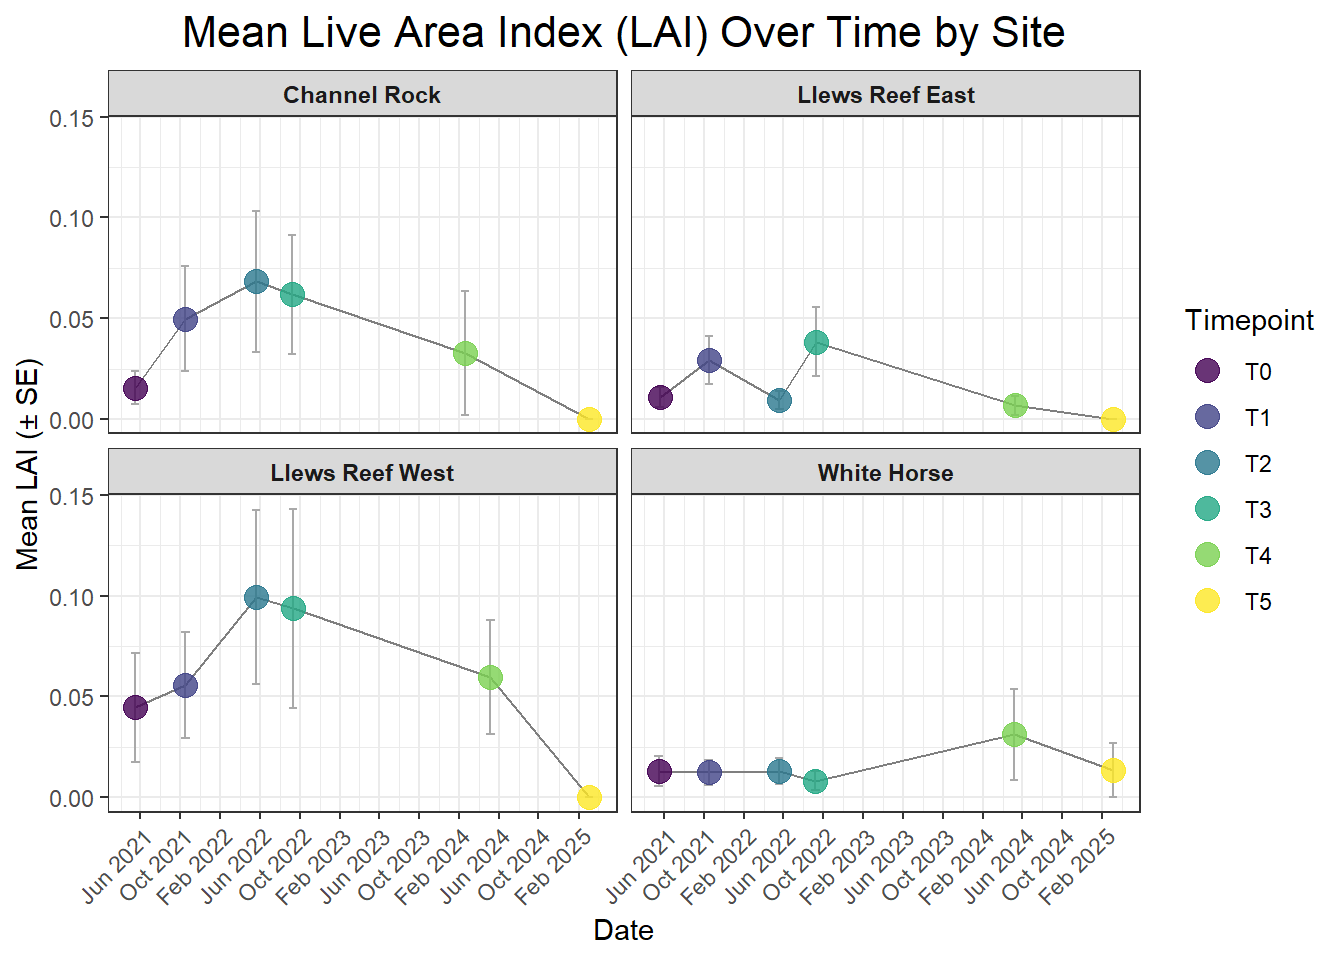
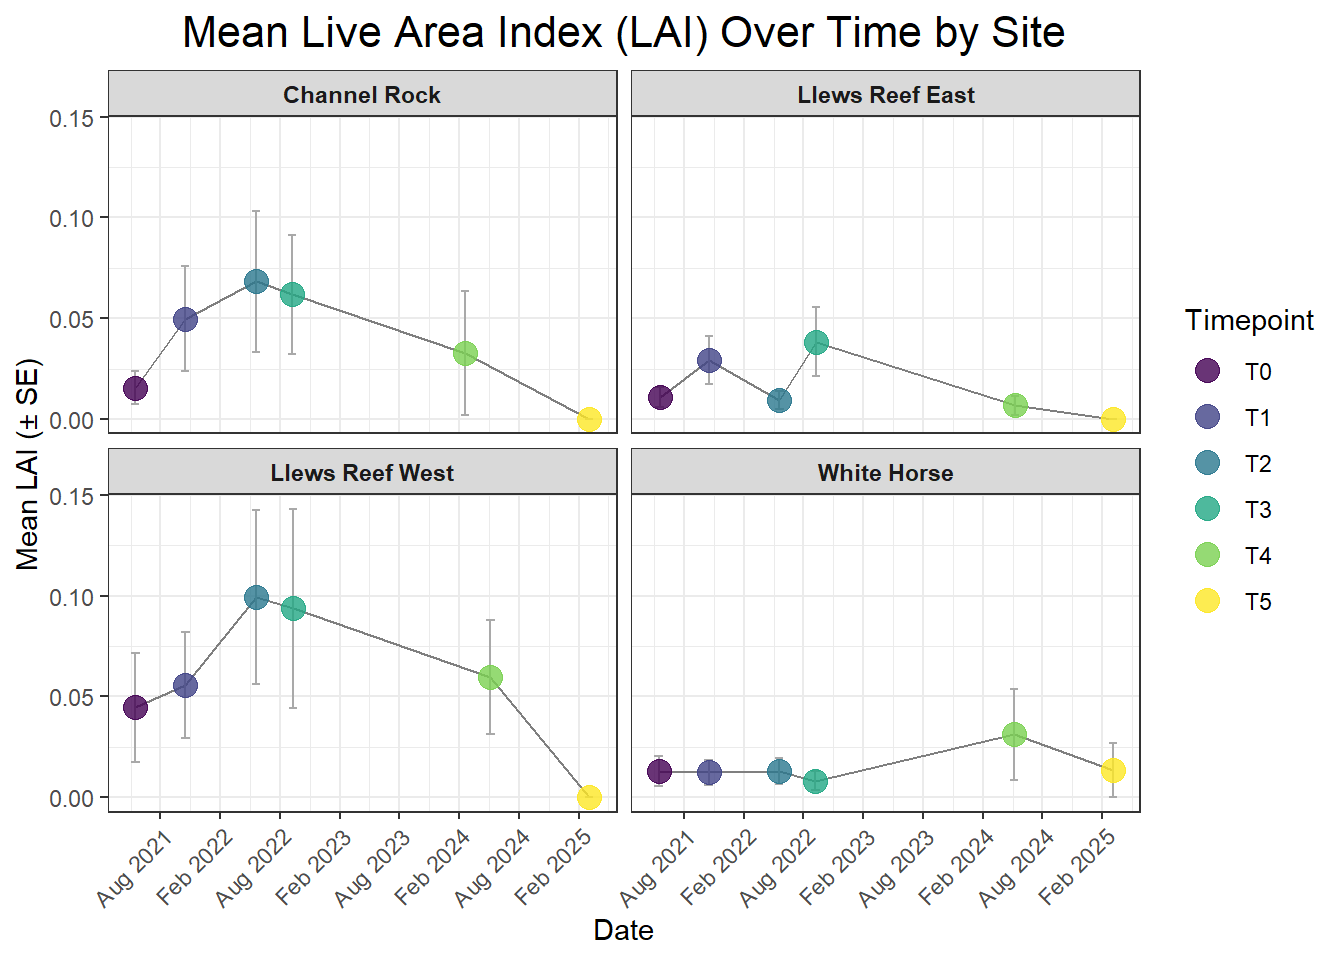
x-axis labels to 6 month intervals for better readability

diff --git a/docs/site-maps.html b/docs/site-maps.html
@@ -159,8 +159,8 @@ ul.task-list li input[type="checkbox"] {
 <p><strong>Site Map</strong></p>
 <div class="cell">
 <div class="cell-output-display">
-<div class="leaflet html-widget html-fill-item" id="htmlwidget-7e0d2bd8f569506e0f3d" style="width:100%;height:464px;"></div>
-<script type="application/json" data-for="htmlwidget-7e0d2bd8f569506e0f3d">{"x":{"options":{"crs":{"crsClass":"L.CRS.EPSG3857","code":null,"proj4def":null,"projectedBounds":null,"options":{}}},"setView":[[18.03805,-64.74905],9,[]],"calls":[{"method":"addProviderTiles","args":["Esri.WorldTopoMap",null,null,{"errorTileUrl":"","noWrap":false,"detectRetina":false}]},{"method":"addMarkers","args":[[17.76713,18.30466,18.31716,17.76215,17.76483,18.31964,18.35674,17.78701,18.31567],[-64.59161,-64.84613,-64.98894,-64.60087,-64.61577,-64.74399,-64.85406999999999,-64.74867,-64.72617],null,null,null,{"interactive":true,"draggable":false,"keyboard":true,"title":"","alt":"","zIndexOffset":0,"opacity":1,"riseOnHover":false,"riseOffset":250},["<div style=\"display: flex; align-items: flex-start;\">\n         \n         <div style=\"width: 280px; padding-right: 10px;\">\n           <strong>Channel Rock<\/strong><br>\n           --------------------<br>\n           <strong>Lat:<\/strong> 17.76713<br>\n           <strong>Lon:<\/strong> -64.59161<br>\n           <strong>Depth:<\/strong> 10 m<br><br>\n           <p style=\"margin: 0; white-space: normal; word-wrap: break-word;\">\"Lorem ipsum dolor sit amet, consectetur adipiscing elit, sed do eiusmod tempor incididunt ut labore et dolore magna aliqua. Ut enim ad minim veniam, quis nostrud exercitation ullamco laboris nisi ut aliquip ex ea commodo consequat. Duis aute irure dolor in reprehenderit in voluptate velit esse cillum dolore eu fugiat nulla pariatur. Excepteur sint occaecat cupidatat non proident, sunt in culpa qui officia deserunt mollit anim id est laborum.\"<\/p>\n         <\/div>\n         \n         <div style=\"width: 350px;\">\n           <img src=\"images/Channel_Rock.JPG\" width=\"350\" alt=\"Photo of Channel Rock\">\n         <\/div>\n       <\/div>","<div style=\"display: flex; align-items: flex-start;\">\n         \n         <div style=\"width: 280px; padding-right: 10px;\">\n           <strong>Cow and Calf<\/strong><br>\n           --------------------<br>\n           <strong>Lat:<\/strong> 18.30466<br>\n           <strong>Lon:<\/strong> -64.84613<br>\n           <strong>Depth:<\/strong> 8 m<br><br>\n           <p style=\"margin: 0; white-space: normal; word-wrap: break-word;\">\"Lorem ipsum dolor sit amet, consectetur adipiscing elit, sed do eiusmod tempor incididunt ut labore et dolore magna aliqua. Ut enim ad minim veniam, quis nostrud exercitation ullamco laboris nisi ut aliquip ex ea commodo consequat. Duis aute irure dolor in reprehenderit in voluptate velit esse cillum dolore eu fugiat nulla pariatur. Excepteur sint occaecat cupidatat non proident, sunt in culpa qui officia deserunt mollit anim id est laborum.\"<\/p>\n         <\/div>\n         \n         <div style=\"width: 350px;\">\n           <img src=\"images/Cow_and_Calf.JPG\" width=\"350\" alt=\"Photo of Cow and Calf\">\n         <\/div>\n       <\/div>","<div style=\"display: flex; align-items: flex-start;\">\n         \n         <div style=\"width: 280px; padding-right: 10px;\">\n           <strong>Flat Cay<\/strong><br>\n           --------------------<br>\n           <strong>Lat:<\/strong> 18.31716<br>\n           <strong>Lon:<\/strong> -64.98894<br>\n           <strong>Depth:<\/strong> 5 m<br><br>\n           <p style=\"margin: 0; white-space: normal; word-wrap: break-word;\">\"Lorem ipsum dolor sit amet, consectetur adipiscing elit, sed do eiusmod tempor incididunt ut labore et dolore magna aliqua. Ut enim ad minim veniam, quis nostrud exercitation ullamco laboris nisi ut aliquip ex ea commodo consequat. Duis aute irure dolor in reprehenderit in voluptate velit esse cillum dolore eu fugiat nulla pariatur. Excepteur sint occaecat cupidatat non proident, sunt in culpa qui officia deserunt mollit anim id est laborum.\"<\/p>\n         <\/div>\n         \n         <div style=\"width: 350px;\">\n           <img src=\"images/Flat_Cay.JPG\" width=\"350\" alt=\"Photo of Flat Cay\">\n         <\/div>\n       <\/div>","<div style=\"display: flex; align-items: flex-start;\">\n         \n         <div style=\"width: 280px; padding-right: 10px;\">\n           <strong>Llews Reef East<\/strong><br>\n           --------------------<br>\n           <strong>Lat:<\/strong> 17.76215<br>\n           <strong>Lon:<\/strong> -64.60087<br>\n           <strong>Depth:<\/strong> 4 m<br><br>\n           <p style=\"margin: 0; white-space: normal; word-wrap: break-word;\">\"Lorem ipsum dolor sit amet, consectetur adipiscing elit, sed do eiusmod tempor incididunt ut labore et dolore magna aliqua. Ut enim ad minim veniam, quis nostrud exercitation ullamco laboris nisi ut aliquip ex ea commodo consequat. Duis aute irure dolor in reprehenderit in voluptate velit esse cillum dolore eu fugiat nulla pariatur. Excepteur sint occaecat cupidatat non proident, sunt in culpa qui officia deserunt mollit anim id est laborum.\"<\/p>\n         <\/div>\n         \n         <div style=\"width: 350px;\">\n           <img src=\"images/Llews_Reef_East.JPG\" width=\"350\" alt=\"Photo of Llews Reef East\">\n         <\/div>\n       <\/div>","<div style=\"display: flex; align-items: flex-start;\">\n         \n         <div style=\"width: 280px; padding-right: 10px;\">\n           <strong>Llews Reef West<\/strong><br>\n           --------------------<br>\n           <strong>Lat:<\/strong> 17.76483<br>\n           <strong>Lon:<\/strong> -64.61577<br>\n           <strong>Depth:<\/strong> 6 m<br><br>\n           <p style=\"margin: 0; white-space: normal; word-wrap: break-word;\">\"Lorem ipsum dolor sit amet, consectetur adipiscing elit, sed do eiusmod tempor incididunt ut labore et dolore magna aliqua. Ut enim ad minim veniam, quis nostrud exercitation ullamco laboris nisi ut aliquip ex ea commodo consequat. Duis aute irure dolor in reprehenderit in voluptate velit esse cillum dolore eu fugiat nulla pariatur. Excepteur sint occaecat cupidatat non proident, sunt in culpa qui officia deserunt mollit anim id est laborum.\"<\/p>\n         <\/div>\n         \n         <div style=\"width: 350px;\">\n           <img src=\"images/Llews_Reef_West.JPG\" width=\"350\" alt=\"Photo of Llews Reef West\">\n         <\/div>\n       <\/div>","<div style=\"display: flex; align-items: flex-start;\">\n         \n         <div style=\"width: 280px; padding-right: 10px;\">\n           <strong>Reef Bay<\/strong><br>\n           --------------------<br>\n           <strong>Lat:<\/strong> 18.31964<br>\n           <strong>Lon:<\/strong> -64.74399<br>\n           <strong>Depth:<\/strong> 9 m<br><br>\n           <p style=\"margin: 0; white-space: normal; word-wrap: break-word;\">\"Lorem ipsum dolor sit amet, consectetur adipiscing elit, sed do eiusmod tempor incididunt ut labore et dolore magna aliqua. Ut enim ad minim veniam, quis nostrud exercitation ullamco laboris nisi ut aliquip ex ea commodo consequat. Duis aute irure dolor in reprehenderit in voluptate velit esse cillum dolore eu fugiat nulla pariatur. Excepteur sint occaecat cupidatat non proident, sunt in culpa qui officia deserunt mollit anim id est laborum.\"<\/p>\n         <\/div>\n         \n         <div style=\"width: 350px;\">\n           <img src=\"images/Reef_Bay.JPG\" width=\"350\" alt=\"Photo of Reef Bay\">\n         <\/div>\n       <\/div>","<div style=\"display: flex; align-items: flex-start;\">\n         \n         <div style=\"width: 280px; padding-right: 10px;\">\n           <strong>Thatch Cay<\/strong><br>\n           --------------------<br>\n           <strong>Lat:<\/strong> 18.35674<br>\n           <strong>Lon:<\/strong> -64.85407<br>\n           <strong>Depth:<\/strong> 7 m<br><br>\n           <p style=\"margin: 0; white-space: normal; word-wrap: break-word;\">\"Lorem ipsum dolor sit amet, consectetur adipiscing elit, sed do eiusmod tempor incididunt ut labore et dolore magna aliqua. Ut enim ad minim veniam, quis nostrud exercitation ullamco laboris nisi ut aliquip ex ea commodo consequat. Duis aute irure dolor in reprehenderit in voluptate velit esse cillum dolore eu fugiat nulla pariatur. Excepteur sint occaecat cupidatat non proident, sunt in culpa qui officia deserunt mollit anim id est laborum.\"<\/p>\n         <\/div>\n         \n         <div style=\"width: 350px;\">\n           <img src=\"images/Thatch_Cay.JPG\" width=\"350\" alt=\"Photo of Thatch Cay\">\n         <\/div>\n       <\/div>","<div style=\"display: flex; align-items: flex-start;\">\n         \n         <div style=\"width: 280px; padding-right: 10px;\">\n           <strong>White Horse<\/strong><br>\n           --------------------<br>\n           <strong>Lat:<\/strong> 17.78701<br>\n           <strong>Lon:<\/strong> -64.74867<br>\n           <strong>Depth:<\/strong> 12 m<br><br>\n           <p style=\"margin: 0; white-space: normal; word-wrap: break-word;\">\"Lorem ipsum dolor sit amet, consectetur adipiscing elit, sed do eiusmod tempor incididunt ut labore et dolore magna aliqua. Ut enim ad minim veniam, quis nostrud exercitation ullamco laboris nisi ut aliquip ex ea commodo consequat. Duis aute irure dolor in reprehenderit in voluptate velit esse cillum dolore eu fugiat nulla pariatur. Excepteur sint occaecat cupidatat non proident, sunt in culpa qui officia deserunt mollit anim id est laborum.\"<\/p>\n         <\/div>\n         \n         <div style=\"width: 350px;\">\n           <img src=\"images/White_Horse.JPG\" width=\"350\" alt=\"Photo of White Horse\">\n         <\/div>\n       <\/div>","<div style=\"display: flex; align-items: flex-start;\">\n         \n         <div style=\"width: 280px; padding-right: 10px;\">\n           <strong>Yawzi Point<\/strong><br>\n           --------------------<br>\n           <strong>Lat:<\/strong> 18.31567<br>\n           <strong>Lon:<\/strong> -64.72617<br>\n           <strong>Depth:<\/strong> 8 m<br><br>\n           <p style=\"margin: 0; white-space: normal; word-wrap: break-word;\">\"Lorem ipsum dolor sit amet, consectetur adipiscing elit, sed do eiusmod tempor incididunt ut labore et dolore magna aliqua. Ut enim ad minim veniam, quis nostrud exercitation ullamco laboris nisi ut aliquip ex ea commodo consequat. Duis aute irure dolor in reprehenderit in voluptate velit esse cillum dolore eu fugiat nulla pariatur. Excepteur sint occaecat cupidatat non proident, sunt in culpa qui officia deserunt mollit anim id est laborum.\"<\/p>\n         <\/div>\n         \n         <div style=\"width: 350px;\">\n           <img src=\"images/Yawzi_Point.JPG\" width=\"350\" alt=\"Photo of Yawzi Point\">\n         <\/div>\n       <\/div>"],{"maxWidth":650,"minWidth":50,"autoPan":true,"keepInView":false,"closeButton":true,"className":""},null,null,["Channel Rock","Cow and Calf","Flat Cay","Llews Reef East","Llews Reef West","Reef Bay","Thatch Cay","White Horse","Yawzi Point"],{"interactive":false,"permanent":true,"direction":"right","opacity":1,"offset":[10,0],"textsize":"12px","textOnly":true,"className":"","sticky":true},null]}],"limits":{"lat":[17.76215,18.35674],"lng":[-64.98894,-64.59161]}},"evals":[],"jsHooks":[]}</script>
+<div class="leaflet html-widget html-fill-item" id="htmlwidget-5c4ec3d3945706364b66" style="width:100%;height:464px;"></div>
+<script type="application/json" data-for="htmlwidget-5c4ec3d3945706364b66">{"x":{"options":{"crs":{"crsClass":"L.CRS.EPSG3857","code":null,"proj4def":null,"projectedBounds":null,"options":{}}},"setView":[[18.03805,-64.74905],9,[]],"calls":[{"method":"addProviderTiles","args":["Esri.WorldTopoMap",null,null,{"errorTileUrl":"","noWrap":false,"detectRetina":false}]},{"method":"addMarkers","args":[[17.76713,18.30466,18.31716,17.76215,17.76483,18.31964,18.35674,17.78701,18.31567],[-64.59161,-64.84613,-64.98894,-64.60087,-64.61577,-64.74399,-64.85406999999999,-64.74867,-64.72617],null,null,null,{"interactive":true,"draggable":false,"keyboard":true,"title":"","alt":"","zIndexOffset":0,"opacity":1,"riseOnHover":false,"riseOffset":250},["<div style=\"display: flex; align-items: flex-start;\">\n         \n         <div style=\"width: 280px; padding-right: 10px;\">\n           <strong>Channel Rock<\/strong><br>\n           --------------------<br>\n           <strong>Lat:<\/strong> 17.76713<br>\n           <strong>Lon:<\/strong> -64.59161<br>\n           <strong>Depth:<\/strong> 10 m<br><br>\n           <p style=\"margin: 0; white-space: normal; word-wrap: break-word;\">\"Lorem ipsum dolor sit amet, consectetur adipiscing elit, sed do eiusmod tempor incididunt ut labore et dolore magna aliqua. Ut enim ad minim veniam, quis nostrud exercitation ullamco laboris nisi ut aliquip ex ea commodo consequat. Duis aute irure dolor in reprehenderit in voluptate velit esse cillum dolore eu fugiat nulla pariatur. Excepteur sint occaecat cupidatat non proident, sunt in culpa qui officia deserunt mollit anim id est laborum.\"<\/p>\n         <\/div>\n         \n         <div style=\"width: 350px;\">\n           <img src=\"images/Channel_Rock.JPG\" width=\"350\" alt=\"Photo of Channel Rock\">\n         <\/div>\n       <\/div>","<div style=\"display: flex; align-items: flex-start;\">\n         \n         <div style=\"width: 280px; padding-right: 10px;\">\n           <strong>Cow and Calf<\/strong><br>\n           --------------------<br>\n           <strong>Lat:<\/strong> 18.30466<br>\n           <strong>Lon:<\/strong> -64.84613<br>\n           <strong>Depth:<\/strong> 8 m<br><br>\n           <p style=\"margin: 0; white-space: normal; word-wrap: break-word;\">\"Lorem ipsum dolor sit amet, consectetur adipiscing elit, sed do eiusmod tempor incididunt ut labore et dolore magna aliqua. Ut enim ad minim veniam, quis nostrud exercitation ullamco laboris nisi ut aliquip ex ea commodo consequat. Duis aute irure dolor in reprehenderit in voluptate velit esse cillum dolore eu fugiat nulla pariatur. Excepteur sint occaecat cupidatat non proident, sunt in culpa qui officia deserunt mollit anim id est laborum.\"<\/p>\n         <\/div>\n         \n         <div style=\"width: 350px;\">\n           <img src=\"images/Cow_and_Calf.JPG\" width=\"350\" alt=\"Photo of Cow and Calf\">\n         <\/div>\n       <\/div>","<div style=\"display: flex; align-items: flex-start;\">\n         \n         <div style=\"width: 280px; padding-right: 10px;\">\n           <strong>Flat Cay<\/strong><br>\n           --------------------<br>\n           <strong>Lat:<\/strong> 18.31716<br>\n           <strong>Lon:<\/strong> -64.98894<br>\n           <strong>Depth:<\/strong> 5 m<br><br>\n           <p style=\"margin: 0; white-space: normal; word-wrap: break-word;\">\"Lorem ipsum dolor sit amet, consectetur adipiscing elit, sed do eiusmod tempor incididunt ut labore et dolore magna aliqua. Ut enim ad minim veniam, quis nostrud exercitation ullamco laboris nisi ut aliquip ex ea commodo consequat. Duis aute irure dolor in reprehenderit in voluptate velit esse cillum dolore eu fugiat nulla pariatur. Excepteur sint occaecat cupidatat non proident, sunt in culpa qui officia deserunt mollit anim id est laborum.\"<\/p>\n         <\/div>\n         \n         <div style=\"width: 350px;\">\n           <img src=\"images/Flat_Cay.JPG\" width=\"350\" alt=\"Photo of Flat Cay\">\n         <\/div>\n       <\/div>","<div style=\"display: flex; align-items: flex-start;\">\n         \n         <div style=\"width: 280px; padding-right: 10px;\">\n           <strong>Llews Reef East<\/strong><br>\n           --------------------<br>\n           <strong>Lat:<\/strong> 17.76215<br>\n           <strong>Lon:<\/strong> -64.60087<br>\n           <strong>Depth:<\/strong> 4 m<br><br>\n           <p style=\"margin: 0; white-space: normal; word-wrap: break-word;\">\"Lorem ipsum dolor sit amet, consectetur adipiscing elit, sed do eiusmod tempor incididunt ut labore et dolore magna aliqua. Ut enim ad minim veniam, quis nostrud exercitation ullamco laboris nisi ut aliquip ex ea commodo consequat. Duis aute irure dolor in reprehenderit in voluptate velit esse cillum dolore eu fugiat nulla pariatur. Excepteur sint occaecat cupidatat non proident, sunt in culpa qui officia deserunt mollit anim id est laborum.\"<\/p>\n         <\/div>\n         \n         <div style=\"width: 350px;\">\n           <img src=\"images/Llews_Reef_East.JPG\" width=\"350\" alt=\"Photo of Llews Reef East\">\n         <\/div>\n       <\/div>","<div style=\"display: flex; align-items: flex-start;\">\n         \n         <div style=\"width: 280px; padding-right: 10px;\">\n           <strong>Llews Reef West<\/strong><br>\n           --------------------<br>\n           <strong>Lat:<\/strong> 17.76483<br>\n           <strong>Lon:<\/strong> -64.61577<br>\n           <strong>Depth:<\/strong> 6 m<br><br>\n           <p style=\"margin: 0; white-space: normal; word-wrap: break-word;\">\"Lorem ipsum dolor sit amet, consectetur adipiscing elit, sed do eiusmod tempor incididunt ut labore et dolore magna aliqua. Ut enim ad minim veniam, quis nostrud exercitation ullamco laboris nisi ut aliquip ex ea commodo consequat. Duis aute irure dolor in reprehenderit in voluptate velit esse cillum dolore eu fugiat nulla pariatur. Excepteur sint occaecat cupidatat non proident, sunt in culpa qui officia deserunt mollit anim id est laborum.\"<\/p>\n         <\/div>\n         \n         <div style=\"width: 350px;\">\n           <img src=\"images/Llews_Reef_West.JPG\" width=\"350\" alt=\"Photo of Llews Reef West\">\n         <\/div>\n       <\/div>","<div style=\"display: flex; align-items: flex-start;\">\n         \n         <div style=\"width: 280px; padding-right: 10px;\">\n           <strong>Reef Bay<\/strong><br>\n           --------------------<br>\n           <strong>Lat:<\/strong> 18.31964<br>\n           <strong>Lon:<\/strong> -64.74399<br>\n           <strong>Depth:<\/strong> 9 m<br><br>\n           <p style=\"margin: 0; white-space: normal; word-wrap: break-word;\">\"Lorem ipsum dolor sit amet, consectetur adipiscing elit, sed do eiusmod tempor incididunt ut labore et dolore magna aliqua. Ut enim ad minim veniam, quis nostrud exercitation ullamco laboris nisi ut aliquip ex ea commodo consequat. Duis aute irure dolor in reprehenderit in voluptate velit esse cillum dolore eu fugiat nulla pariatur. Excepteur sint occaecat cupidatat non proident, sunt in culpa qui officia deserunt mollit anim id est laborum.\"<\/p>\n         <\/div>\n         \n         <div style=\"width: 350px;\">\n           <img src=\"images/Reef_Bay.JPG\" width=\"350\" alt=\"Photo of Reef Bay\">\n         <\/div>\n       <\/div>","<div style=\"display: flex; align-items: flex-start;\">\n         \n         <div style=\"width: 280px; padding-right: 10px;\">\n           <strong>Thatch Cay<\/strong><br>\n           --------------------<br>\n           <strong>Lat:<\/strong> 18.35674<br>\n           <strong>Lon:<\/strong> -64.85407<br>\n           <strong>Depth:<\/strong> 7 m<br><br>\n           <p style=\"margin: 0; white-space: normal; word-wrap: break-word;\">\"Lorem ipsum dolor sit amet, consectetur adipiscing elit, sed do eiusmod tempor incididunt ut labore et dolore magna aliqua. Ut enim ad minim veniam, quis nostrud exercitation ullamco laboris nisi ut aliquip ex ea commodo consequat. Duis aute irure dolor in reprehenderit in voluptate velit esse cillum dolore eu fugiat nulla pariatur. Excepteur sint occaecat cupidatat non proident, sunt in culpa qui officia deserunt mollit anim id est laborum.\"<\/p>\n         <\/div>\n         \n         <div style=\"width: 350px;\">\n           <img src=\"images/Thatch_Cay.JPG\" width=\"350\" alt=\"Photo of Thatch Cay\">\n         <\/div>\n       <\/div>","<div style=\"display: flex; align-items: flex-start;\">\n         \n         <div style=\"width: 280px; padding-right: 10px;\">\n           <strong>White Horse<\/strong><br>\n           --------------------<br>\n           <strong>Lat:<\/strong> 17.78701<br>\n           <strong>Lon:<\/strong> -64.74867<br>\n           <strong>Depth:<\/strong> 12 m<br><br>\n           <p style=\"margin: 0; white-space: normal; word-wrap: break-word;\">\"Lorem ipsum dolor sit amet, consectetur adipiscing elit, sed do eiusmod tempor incididunt ut labore et dolore magna aliqua. Ut enim ad minim veniam, quis nostrud exercitation ullamco laboris nisi ut aliquip ex ea commodo consequat. Duis aute irure dolor in reprehenderit in voluptate velit esse cillum dolore eu fugiat nulla pariatur. Excepteur sint occaecat cupidatat non proident, sunt in culpa qui officia deserunt mollit anim id est laborum.\"<\/p>\n         <\/div>\n         \n         <div style=\"width: 350px;\">\n           <img src=\"images/White_Horse.JPG\" width=\"350\" alt=\"Photo of White Horse\">\n         <\/div>\n       <\/div>","<div style=\"display: flex; align-items: flex-start;\">\n         \n         <div style=\"width: 280px; padding-right: 10px;\">\n           <strong>Yawzi Point<\/strong><br>\n           --------------------<br>\n           <strong>Lat:<\/strong> 18.31567<br>\n           <strong>Lon:<\/strong> -64.72617<br>\n           <strong>Depth:<\/strong> 8 m<br><br>\n           <p style=\"margin: 0; white-space: normal; word-wrap: break-word;\">\"Lorem ipsum dolor sit amet, consectetur adipiscing elit, sed do eiusmod tempor incididunt ut labore et dolore magna aliqua. Ut enim ad minim veniam, quis nostrud exercitation ullamco laboris nisi ut aliquip ex ea commodo consequat. Duis aute irure dolor in reprehenderit in voluptate velit esse cillum dolore eu fugiat nulla pariatur. Excepteur sint occaecat cupidatat non proident, sunt in culpa qui officia deserunt mollit anim id est laborum.\"<\/p>\n         <\/div>\n         \n         <div style=\"width: 350px;\">\n           <img src=\"images/Yawzi_Point.JPG\" width=\"350\" alt=\"Photo of Yawzi Point\">\n         <\/div>\n       <\/div>"],{"maxWidth":650,"minWidth":50,"autoPan":true,"keepInView":false,"closeButton":true,"className":""},null,null,["Channel Rock","Cow and Calf","Flat Cay","Llews Reef East","Llews Reef West","Reef Bay","Thatch Cay","White Horse","Yawzi Point"],{"interactive":false,"permanent":true,"direction":"right","opacity":1,"offset":[10,0],"textsize":"12px","textOnly":true,"className":"","sticky":true},null]}],"limits":{"lat":[17.76215,18.35674],"lng":[-64.98894,-64.59161]}},"evals":[],"jsHooks":[]}</script>
 </div>
 </div>
 </div>
